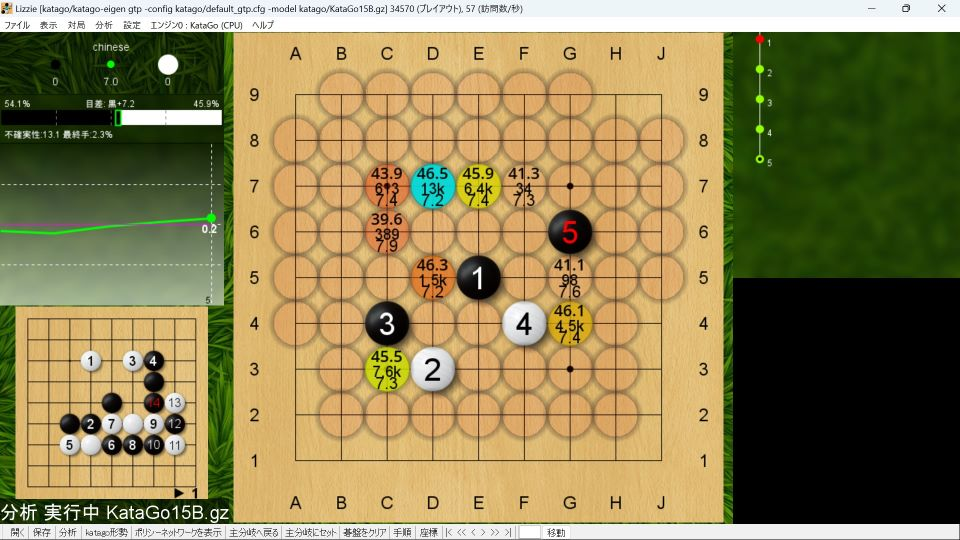
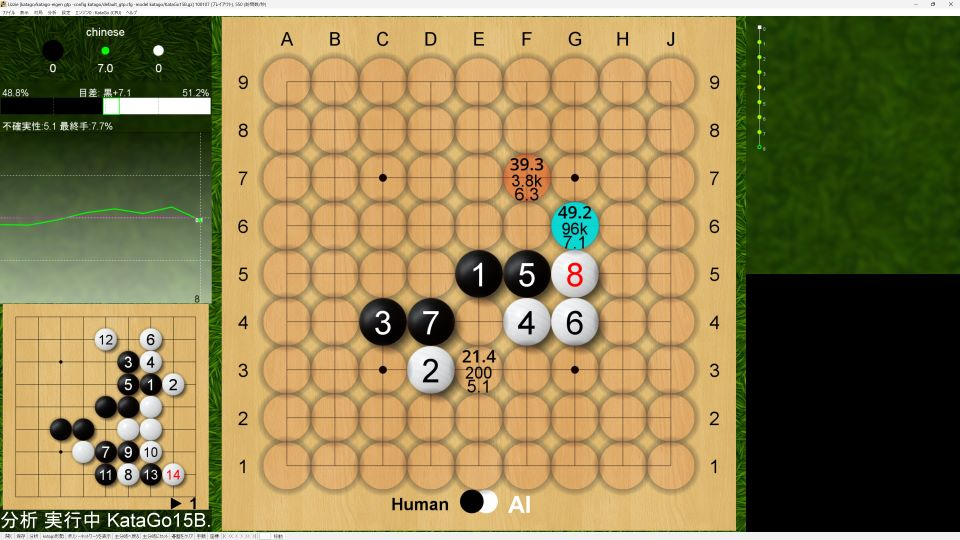
Add

diff --git a/9roban_tengen.md b/9roban_tengen.md
@@ -74,6 +74,10 @@
 
 ![振り子定石-図5](img/furiko_1-005.jpg)
 
+白８に対して、黒がＧ６に押さえる。双方最善を尽くせば持碁になるらしい。
+
+![振り子定石-図6](img/furiko_1-006.jpg)
+
 黒５とケイマに外す手も有力であるが、その後も変化が多く難しい。
 
 ## 風車定石
